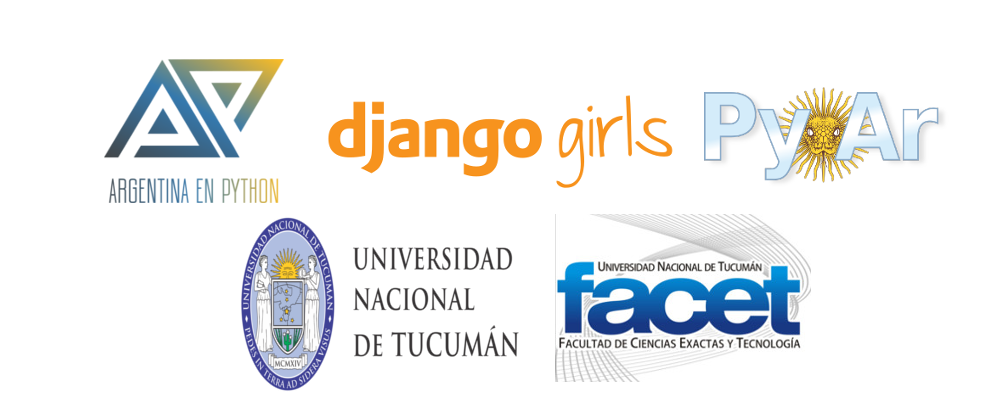
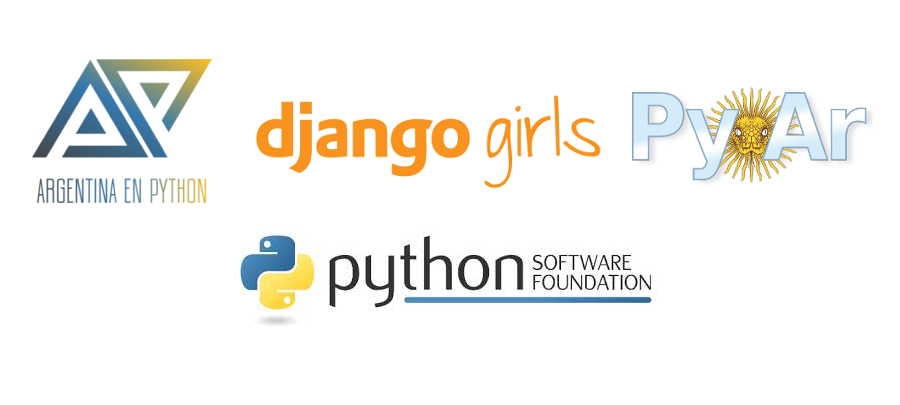
Modificación imágenes de instituciones organizadores, colaboradores, flyer. Agregamos imágenes de guías y organizadores. Modificamos archivo rst.

Changed region(s): [[0.2178, 0.5333, 0.8089, 0.9778], [0.28, 0.2074, 0.9644, 0.4741], [0.0311, 0.1481, 0.28, 0.5037]]

diff --git a/web/stories/django-girls-tucuman.rst b/web/stories/django-girls-tucuman.rst
@@ -20,10 +20,13 @@
 .. image:: membrete-tucuman-violeta.png
    :align: center
 
+En el marco de la "Semana del Programador 2017" organizada por la 
+carrera Programador Universitario, en su 20º aniversario, y el Dpto. de 
+Ciencias de la Computación de la Facultad de Ciencias Exactas y Tecnología
+de la Universidad Nacional de Tucumán...
 
-¡Queremos animar a más mujeres a dominar la web! Es por eso que desde
-`Argentina en Python <https://argentinaenpython.com>`_ estamos
-organizando un taller en el cual podrás construir tu propio sitio web
+¡Queremos animar a más mujeres a dominar la web! Es por eso que
+estamos organizando un taller en el cual podrás construir tu propio sitio web
 *desde cero* en un día. Además, vamos a utilizar todas las
 herramientas que programadores profesionales utilizan diariamente. ¡Y
 de una manera muy sencilla!
@@ -85,7 +88,7 @@ mujer con vos que también realice el taller [#]_.
   <https://www.facet.unt.edu.ar/>`_ Avda. Independencia 1800, Tucumán, 
   Argentina.
 
-* Fecha: Sábado 16 de Septiembre de 2017 de 8:30hs (puntual) a 19:00hs.
+* Fecha: Martes 12 de Septiembre de 2017 de 8:30hs (puntual) a 19:00hs.
 
 .. template:: iframe
    :src: https://www.openstreetmap.org/export/embed.html?bbox=-65.24552822113039%2C-26.850914143478878%2C-65.21720409393312%2C-26.833587308336288&amp;layer=mapnik&amp;marker=-26.8422510573666%2C-65.23136615753174
@@ -93,10 +96,7 @@ mujer con vos que también realice el taller [#]_.
 .. sidebar:: Contacto
 
    Cualquier duda que tengas sobre el taller, nos puedes escribir a
-   `argentinaenpython@openmailbox.org
-   <mailto:argentinaenpython@openmailbox.org>`_ o 
-   `programador.facet@herrera.unt.edu.ar  <mailto:programador.facet@herrera.unt.edu.ar>`_ para ponerte en
-   contacto con nosotros.
+   `programador.facet@herrera.unt.edu.ar  <mailto:programador.facet@herrera.unt.edu.ar>`_ para ponerte en contacto con nosotros.
 
    .. image:: organizadores.png
       :align: center
@@ -129,7 +129,7 @@ Tené en cuenta que...
 
 * ... en lo posible, debes llevar un extensor de corriente.
 
-* ... agrega la dirección argentinaenpython@openmailbox.org a tu libreta
+* ... agrega la dirección programador.facet@herrera.unt.edu.ar a tu libreta
   de direcciones así evitamos que el email llegue a *SPAM*
 
 * ... debes **revisar el email** durante los 15 días previos al evento
@@ -173,7 +173,7 @@ Timeline (*línea de tiempo*)
 
 .. class:: lead align-center
 
-   ¡Sólo necesitás tener buena onda, el sábado completo libre y muchas
+   ¡Sólo necesitás tener buena onda, el Martes completo libre y muchas
    ganas de aprender! ¡Sumate!
 
 
@@ -203,8 +203,86 @@ contigo para coordinar los detalles.
    ¡Quiero participar como guía!
 
 
-Colaboradores
--------------
+¡Conocé a nuestros guías!
+*************************
+
+.. raw:: html
+
+   <style>
+     div.django-girls-guia {
+       min-height: 250px;
+     }
+
+     div.section-guia {
+       display: inline-block;
+       width: 100%;
+     }
+   </style>
+
+   <div class="section-guia">
+
+.. template:: bootstrap3/django-girls-guia
+   :name: Delgado Gonzalo
+   :image: GD.png
+   :place: Tucumán
+
+.. template:: bootstrap3/django-girls-guia
+   :name: Dominguez Víctor
+   :image: VD.png
+   :place: Tucumán
+
+.. template:: bootstrap3/django-girls-guia
+   :name: Corrales Malena
+   :image: MC.png
+   :place: Tucumán
+
+.. template:: bootstrap3/django-girls-guia
+   :name: Dall'Ara Vanessa
+   :image: VaDa.png
+   :place: Tucumán
+
+.. raw:: html
+
+   </div>
+
+----
+
+¡Los organizadores!
+-------------------
+
+.. raw:: html
+
+   <style>
+     div.django-girls-organizadores {
+       min-height: 350px;
+     }
+
+     div.section-organizadores {
+       display: inline-block;
+     }
+   </style>
+
+   <div class="section-organizadores">
+
+.. template:: bootstrap3/django-girls-guia
+   :name: Jorge Namour
+   :image: JN.png
+   :email: jnamour@herrera.unt.edu.ar
+
+.. template:: bootstrap3/django-girls-guia
+   :name: Cristina Werenitzky
+   :image: CW.png
+
+.. template:: bootstrap3/django-girls-guia
+   :name: Graciela Molina
+   :image: GM.png
+
+.. raw:: html
+
+   </div>
+
+Con el apoyo de
+---------------
 
 .. image:: colaboradores.png
    :align: center
